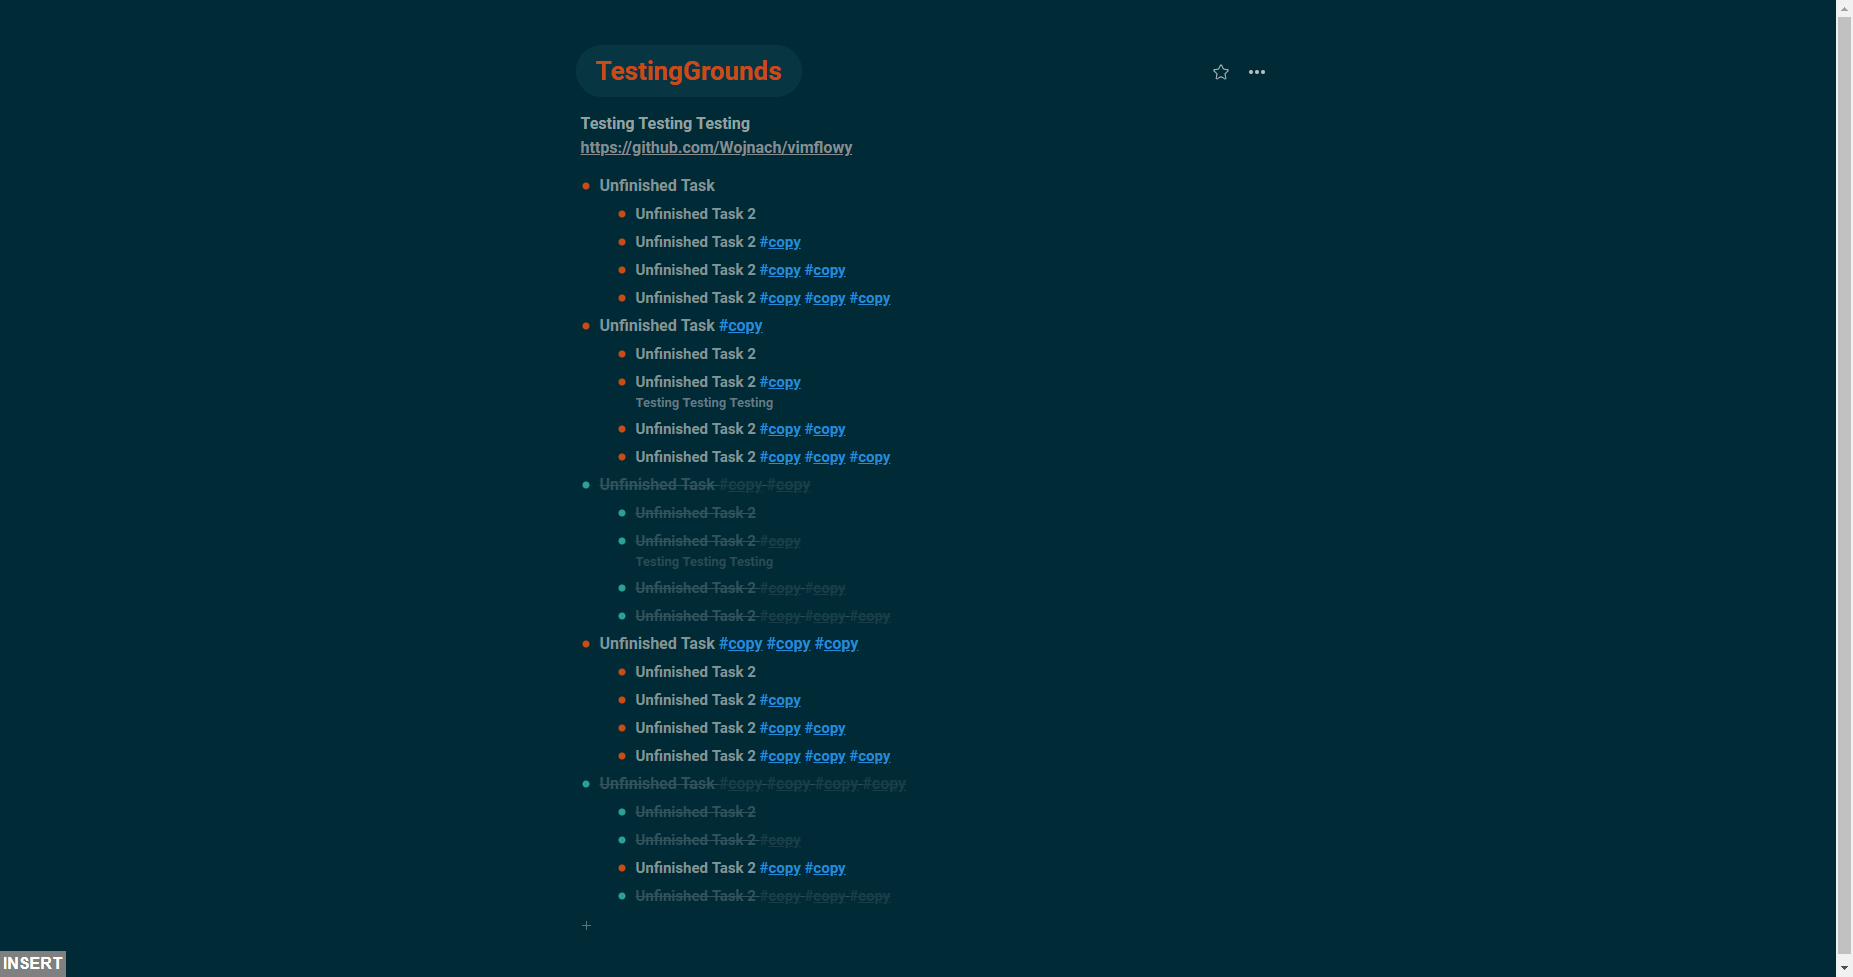
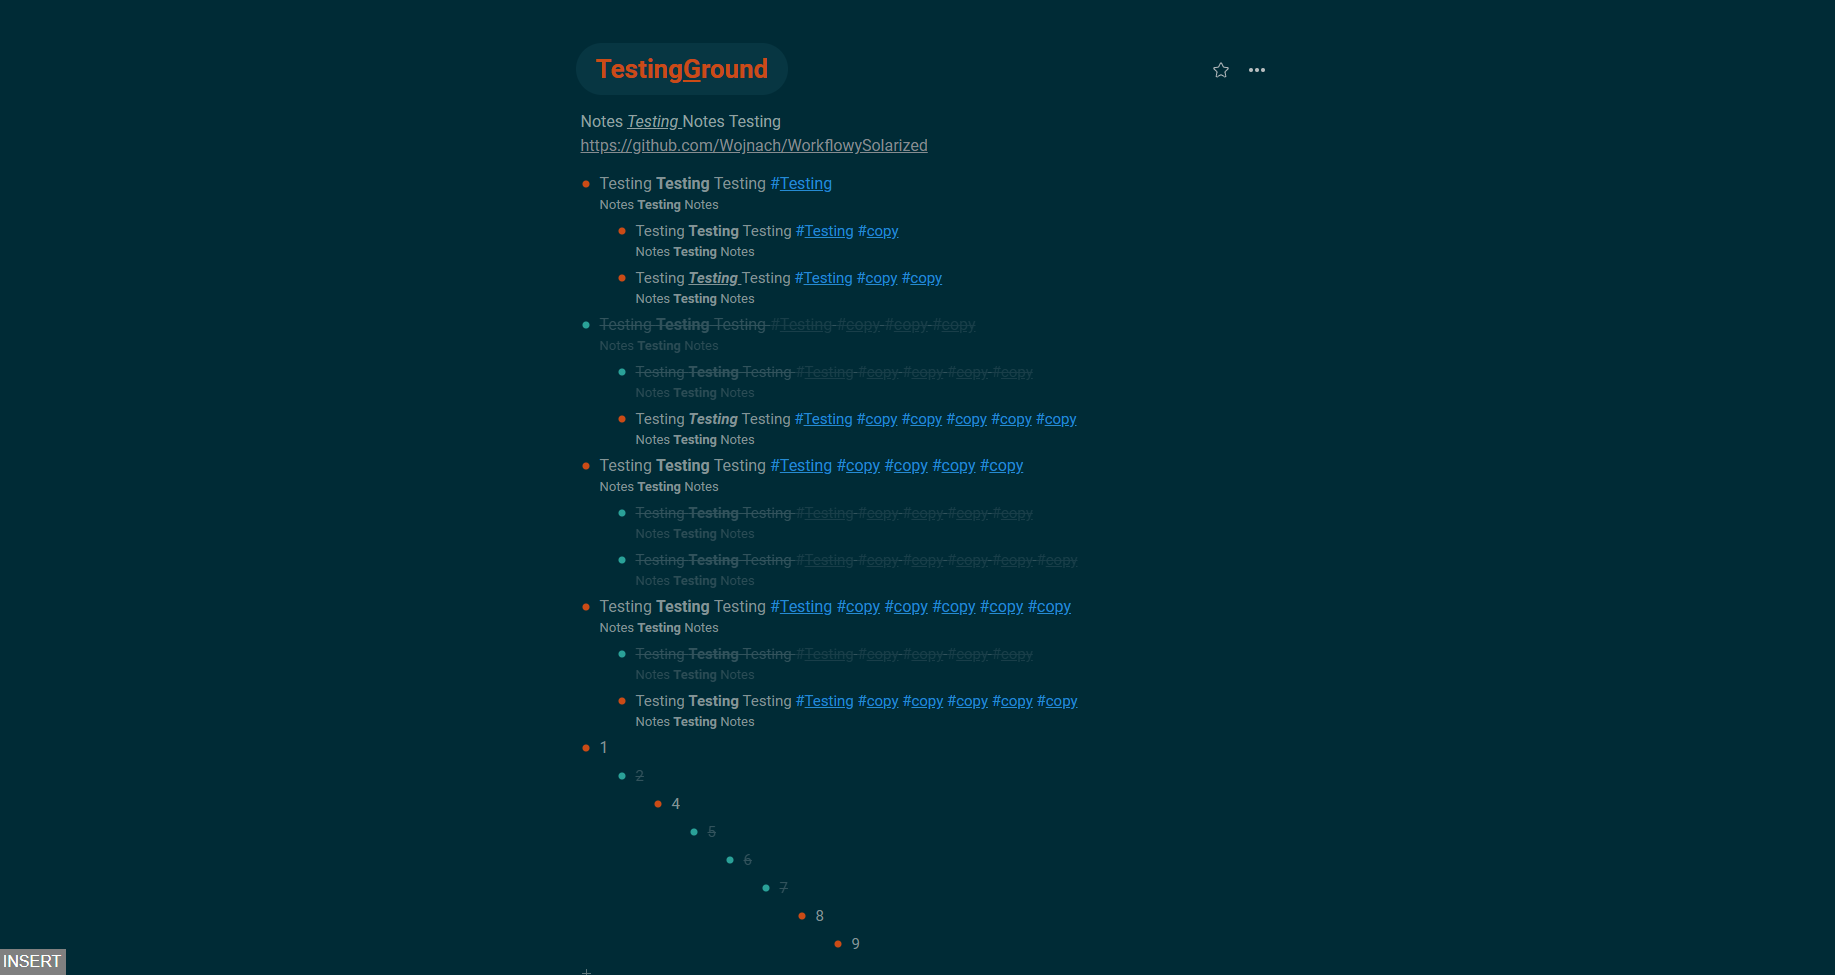
removed global bold font. Highlighted items now have a more solarized color.

diff --git a/WorkflowySolarized_Light.css b/WorkflowySolarized_Light.css
@@ -1,14 +1,14 @@
 
 /*
-	#CB4B16 == ORANGE
-	#268BD2 == BLUE
-	#6C71C4 == PURPLE
+  #CB4B16 == ORANGE
+  #268BD2 == BLUE
+  #6C71C4 == PURPLE
     #2AA198 == SLIME GREEN
 */
 
 body 
 {
-	background: #fdf6e3;
+  background: #fdf6e3;
 }
 
 body,
@@ -24,7 +24,7 @@ h1, h2, h3, h4, h5, h6, p, li,
 .entry-title
 {
     font-family: 'Roboto', sans-serif;
-    font-weight: bold;
+/*     font-weight: bold; */
 }
 
 .edge,
@@ -62,31 +62,40 @@ h1, h2, h3, h4, h5, h6, p, li,
 .selected.project > .notes > .content,
 .selected.project.done > .notes > .content{
     padding: 0px 5px;    
-	color: #586E75;	
+  color: #586E75; 
+}
+
+.notes > .content {
+  height: auto !important;
+  display: block !important;
+  -webkit-line-clamp: none !important;
+  max-height: none !important;
 }
 
 .project.done > .name > .content
 {
-    color: #839496;	
-    opacity: 0.8;
-    font-weight: 500;
+    color: #839496; 
+/*     opacity: 0.8; */
+    opacity: 0.6;
+/*     font-weight: 500; */
 }
 
 .project.done > .notes > .content{
     color: #93A1A1;
-	opacity: 0.8;
-    font-weight: 500;
+/*  opacity: 0.8; */
+    opacity: 0.6;
+/*     font-weight: 500; */
 }
 
 .project > .name > .content
 {
-  	border-color: #eee8d5;
-    color: #657B83;		
+    border-color: #eee8d5;
+    color: #657B83;   
 }
 
 .project > .notes > .content
 {
-    color: #839496;	
+    color: #839496; 
 }
 
 .selected.done 
@@ -140,8 +149,8 @@ h1, h2, h3, h4, h5, h6, p, li,
 .project.done > .name > .nameAnimated > .contentTag
 { 
 /*     color: #D33682;   */
-/* 	color: #268BD2; */
-	color: #839496;	
+/*  color: #268BD2; */
+  color: #839496; 
     opacity: 0.8;
 }
 
@@ -151,6 +160,12 @@ h1, h2, h3, h4, h5, h6, p, li,
     background-color: #586E75 !important;    */
   color: #FDF6E3;
   background-color: #B58900 !important;   
+}
+
+.highlighted::before,
+.addedToSelection::before
+{
+    background-color: #EEE8D5 !important;
 }
 
 /* FADE IN TOOLBAR ON HOVER */
@@ -184,3 +199,4 @@ textarea.enhanced a
 {
     color: #268bd2; 
 }
+

diff --git a/WorkflowySolarized_Dark.css b/WorkflowySolarized_Dark.css
@@ -27,8 +27,8 @@ h1, h2, h3, h4, h5, h6, p, li,
 /*     font-family: 'Lato', sans-serif; */
 /*     font-family: 'Terminus', sans-serif; */
 /*     font-family: 'DejaVuSans', sans-serif; */
-/*     font-family: 'Roboto', sans-serif; */
-    font-family: 'Ubuntu', sans-serif;
+    font-family: 'Roboto', sans-serif;
+/*     font-family: 'Ubuntu', sans-serif; */
 /*     font-weight: 500; */
 /*     font-weight: bold; */
 }
@@ -71,6 +71,13 @@ h1, h2, h3, h4, h5, h6, p, li,
   color: #93A1A1; 
 }
 
+.notes > .content {
+  height: auto !important;
+  display: block !important;
+  -webkit-line-clamp: none !important;
+  max-height: none !important;
+}
+
 .project.done > .name > .content
 {
   opacity: 0.5;
@@ -86,13 +93,15 @@ h1, h2, h3, h4, h5, h6, p, li,
 
 .project > .name > .content{
     border-color: #073642;
-/*     color: #839496;   */
-  color: #93A1A1; 
+  color: #93A1A1;
+    color: #839496; 
 }
 
+
 .project > .notes > .content{
-/*     color: #657B83;   */
-  color: #839496; 
+/*     color: #586E75; */
+/*     color: #657B83; */
+  color: #839496;
 }
 
 .selected.done {
@@ -149,8 +158,13 @@ h1, h2, h3, h4, h5, h6, p, li,
 /*    color: #93A1A1;
     background-color: #268BD2 !important; */
     color: #268BD2;
-    background-color: #93A1A1 !important; 
-    
+    background-color: #93A1A1 !important;    
+}
+
+.highlighted::before,
+.addedToSelection::before
+{
+    background-color: #073642 !important;
 }
 
 /* FADE IN TOOLBAR ON HOVER */
@@ -184,3 +198,4 @@ textarea.enhanced a
 {
     color: #268bd2; 
 }
+
